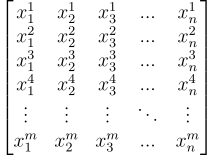
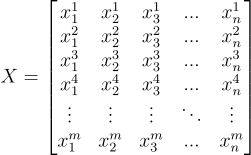
added vect function h(x)

diff --git a/README.md b/README.md
@@ -51,7 +51,10 @@ If you have some calculus knowledge can easily conclude that the partial derivat
 <img src="https://github.com/HenriqueMedeiross/Gradient-descent-study/blob/master/Equations/gradient-func-J.png?raw=true">
 
 
-Now our gradient descent is ready to work, but it can be less computational expensive without all those sums. In order to vectorize the h(x), we can simply multiply X with theta since X's dimentions are (m x n) and theta's are (n x 1), so our h matrix will result like y, (m x 1) as expected.
+Now our gradient descent is ready to work, but it can be less computational expensive without all those sums. In order to vectorize the h(x), we can simply multiply X with theta since X's dimentions are (m x n) and theta's are (n x 1), so our h matrix will result like y, (m x 1) as expected. Take some time trying to understand the figure below.
+
+<img src="https://github.com/HenriqueMedeiross/Gradient-descent-study/blob/master/Equations/vect-h(x)-eq.png?raw=true">
+
 
 The function J (mean square error) vectorized can be written like this:  
 
